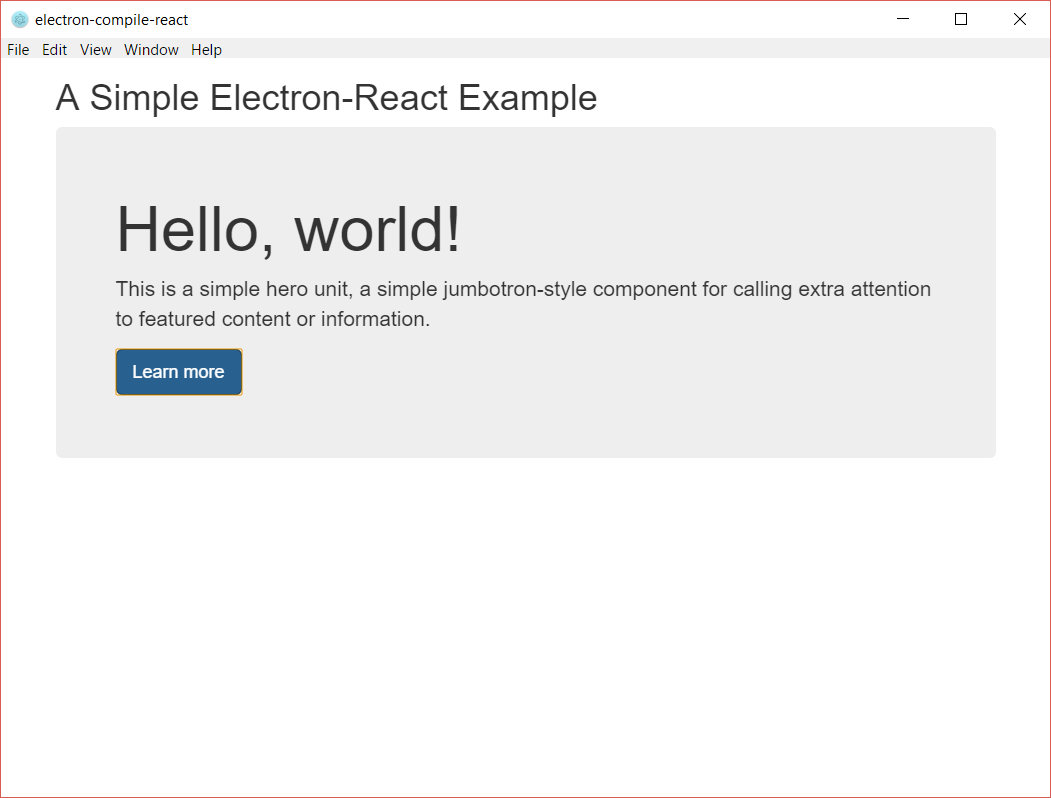
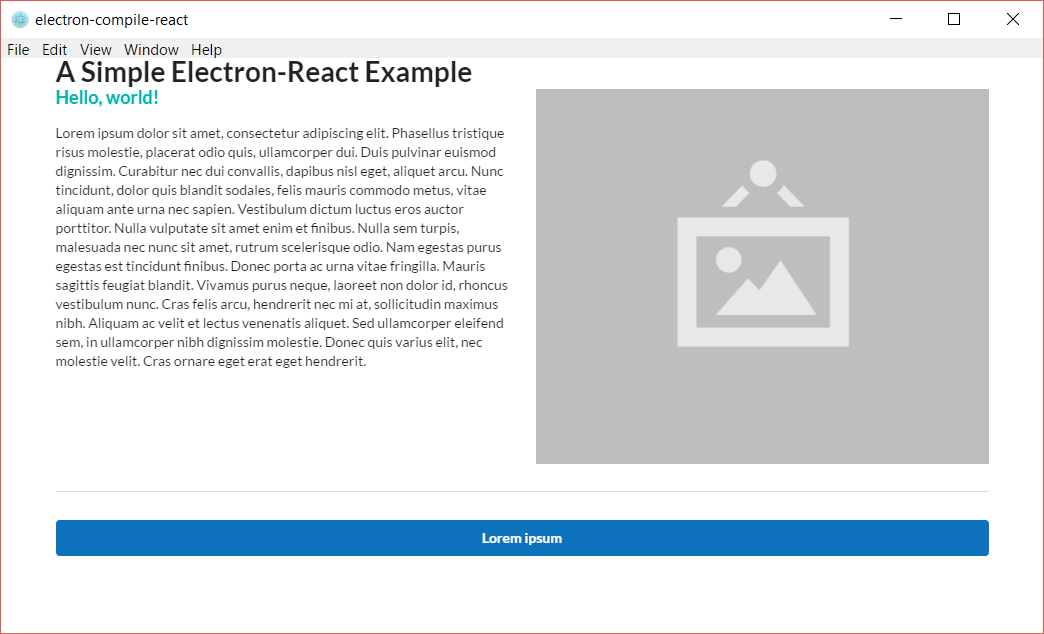
Changed UI Framework
Changed the UI framework from Bootstrap 3 to Semantic-UI-React. Changed
the .jsx components to include components from Semantic-UI-React.
Also added 'cross-env' npm package to allow user to add different ENV
variables upon starting the app.

diff --git a/main.js b/main.js
@@ -2,6 +2,12 @@ const {app, BrowserWindow} = require('electron')
 const path = require('path')
 const url = require('url')
 
+// Allow hot reload of the Electron app
+// https://www.npmjs.com/package/electron-reload
+// require('electron-reload')(__dirname, {
+//   electron: require('electron-prebuilt-compile')
+// })
+
 // Keep a global reference of the window object, if you don't, the window will
 // be closed automatically when the JavaScript object is garbage collected.
 let win
@@ -16,15 +22,23 @@ function createWindow () {
     title: 'electron-compile-react'
   })
 
-  // and load the index.html of the app.
-  win.loadURL(url.format({
-    pathname: path.join(__dirname, 'index.html'),
-    protocol: 'file:',
-    slashes: true
-  }))
+  // load the index.html of the app based on script ENV Variables.
+  if (process.env.NODE_ENV === 'development') {
+    win.loadURL(url.format({
+      pathname: path.join(__dirname, 'index.html'),
+      protocol: 'file:',
+      slashes: true
+    }))
 
-  // Open the DevTools.
-  win.webContents.openDevTools()
+    // Open the DevTools only in Development mode.
+    win.webContents.openDevTools()
+  } else {
+    win.loadURL(url.format({
+      pathname: path.join(__dirname, 'index.html'),
+      protocol: 'file:',
+      slashes: true
+    }))
+  }
 
   // Emitted when the window is closed.
   win.on('closed', () => {

diff --git a/src/components/LeftContent.jsx b/src/components/LeftContent.jsx
@@ -1,0 +1,15 @@
+// This component contains contents for the Body Component to render.
+import React from 'react'
+import { Container, Header } from 'semantic-ui-react'
+
+export default class Body extends React.Component {
+  render () {
+    return (
+      <Container fluid>
+        <Header as='h3' color='teal'>Hello, world!</Header>
+        <p>Lorem ipsum dolor sit amet, consectetur adipiscing elit. Phasellus tristique risus molestie, placerat odio quis, ullamcorper dui. Duis pulvinar euismod dignissim. Curabitur nec dui convallis, dapibus nisl eget, aliquet arcu. Nunc tincidunt, dolor quis blandit sodales, felis mauris commodo metus, vitae aliquam ante urna nec sapien. Vestibulum dictum luctus eros auctor porttitor. Nulla vulputate sit amet enim et finibus. Nulla sem turpis, malesuada nec nunc sit amet, rutrum scelerisque odio. Nam egestas purus egestas est tincidunt finibus. Donec porta ac urna vitae fringilla. Mauris sagittis feugiat blandit. Vivamus purus neque, laoreet non dolor id, rhoncus vestibulum nunc. Cras felis arcu, hendrerit nec mi at, sollicitudin maximus nibh. Aliquam ac velit et lectus venenatis aliquet. Sed ullamcorper eleifend sem, in ullamcorper nibh dignissim molestie. Donec quis varius elit, nec molestie velit. Cras ornare eget erat eget hendrerit.
+        </p>
+      </Container>
+    )
+  }
+}

diff --git a/src/components/Body.jsx b/src/components/Body.jsx
@@ -1,16 +1,29 @@
-// This component contains the body/main contents of the app. An example of Bootstrap Jumbotron.
+// This component contains the body/main contents of the app. This is an example of using the Grid component.
 import React from 'react'
+import { Button, Container, Grid, Image } from 'semantic-ui-react'
+import LeftContent from './LeftContent'
 
 export default class Body extends React.Component {
   render () {
     return (
-      <div>
-        <div className="jumbotron">
-          <h1>Hello, world!</h1>
-          <p>This is a simple hero unit, a simple jumbotron-style component for calling extra attention to featured content or information.</p>
-          <p><a className="btn btn-primary btn-lg" href="#" role="button">Learn more</a></p>
-        </div>
-      </div>
+      <Grid divided='vertically'>
+        <Grid.Row columns={2}>
+          <Grid.Column>
+            <LeftContent />
+          </Grid.Column>
+          <Grid.Column>
+            <Container>
+              <Image src='./resources/blank_image.png' />
+            </Container>
+          </Grid.Column>
+        </Grid.Row>
+
+        <Grid.Row columns={1}>
+          <Grid.Column>
+            <Button fluid color='blue'>Lorem ipsum</Button>
+          </Grid.Column>
+        </Grid.Row>
+      </Grid>
     )
   }
 }

diff --git a/index.html b/index.html
@@ -1,14 +1,16 @@
 <!DOCTYPE html>
 <head>
-	<!-- Load Bootstrap 3 stylesheet -->
-	<link rel="stylesheet" href="https://maxcdn.bootstrapcdn.com/bootstrap/3.3.7/css/bootstrap.min.css"
-	integrity="sha384-BVYiiSIFeK1dGmJRAkycuHAHRg32OmUcww7on3RYdg4Va+PmSTsz/K68vbdEjh4u" crossorigin="anonymous">
+	<!-- Load Semantic-UI -->
+	<!-- Note that this method does not allow for custom theming -->
+	<!-- Refer to: http://react.semantic-ui.com/usage -->
+	<link rel="stylesheet" href="//cdnjs.cloudflare.com/ajax/libs/semantic-ui/2.2.2/semantic.min.css"></link>
+
 </head>
 
 <body>
-	<div class="container" id="app"></div>
+	<div id="app"></div>
 
-	<script src="./App.js"></script>
+	<script src="./App.jsx"></script>
 
 	<!-- Start test here for React component embeded in html. This can be removed - for testing purposes only -->
 	<!-- Comment out above <div> and <script> tags then uncomment this section and run 'npm run start' -->

diff --git a/src/components/Layout.jsx b/src/components/Layout.jsx
@@ -1,16 +1,17 @@
 // This component defines a layout for the app and can be comprised on many elements.
 // This component is loaded into App.js to be rendered
 import React from 'react'
-import Header from './Header'
+import { Container } from 'semantic-ui-react'
+import Heading from './Heading'
 import Body from './Body'
 
 export default class Layout extends React.Component {
   render () {
     return (
-      <div>
-        <Header />
+      <Container>
+        <Heading />
         <Body />
-      </div>
+      </Container>
     )
   }
 }

diff --git a/src/components/Heading.jsx b/src/components/Heading.jsx
@@ -1,0 +1,13 @@
+// Import React Libraries
+import React from 'react'
+import { Container, Header } from 'semantic-ui-react'
+
+export default class Heading extends React.Component {
+  render () {
+    return (
+      <Container>
+        <Header as='h1'>A Simple Electron-React Example</Header>
+      </Container>
+    )
+  }
+}

diff --git a/README.md b/README.md
@@ -11,8 +11,9 @@ This boilerplate uses the following technology:
 - [electron-prebuilt-compile](https://github.com/electron-userland/electron-prebuilt-compile): powered by [electron-compile](https://github.com/electron/electron-compile) to compile JS and CSS
 - [React](https://facebook.github.io/react/): the UI
 - [Babel](http://babeljs.io/): a JavaScript compiler
-- [Bootstrap 3](http://getbootstrap.com/): a responsive CSS framework
+- [Semantic-UI-React](http://react.semantic-ui.com/introduction): a responsive UI framework with React components
 - [react-devtools](https://github.com/facebook/react-devtools): an extension of Chrome's developer tools for React components. Installed using [electron-devtools-installer](https://github.com/MarshallOfSound/electron-devtools-installer)
+- [cross-env](https://www.npmjs.com/package/cross-env): set environment scripts for running the app
 
 
 ![App screenshot](resources/electron-compile-react_screenshot.png)
@@ -47,6 +48,12 @@ package.json
 ```
 
 
+Note that the current configuration for Semantic-UI-React is installed via npm and includes the Semantic UI CDN link in the *index.js* file. To allow for custom theming with Semantic UI, the Semantic UI package would need to be installed and built with Gulp. Refer [here](https://github.com/Semantic-Org/Semantic-UI#install) for instructions on how to install the Semantic UI package.
+
+
+---
+
+
 # Editor Configuration
 #### Atom
 ```bash
@@ -54,11 +61,12 @@ apm install linter linter-js-standard-jsx react autocomplete-modules javascript-
 ```
 
 # Other UI Options
-The current template uses Bootstrap, but here are a few other front-end frameworks that can be used instead:
-- [Semantic UI](http://semantic-ui.com/)
-- [Foundation](http://foundation.zurb.com/)
-- [Materialize](http://materializecss.com/)
+The current template uses Semantic-UI-React, but here are a few other front-end frameworks that can be used instead:
+- [Semantic UI](http://semantic-ui.com/) or [Semantic-UI-React](http://react.semantic-ui.com/introduction)
 - [Material-UI](http://www.material-ui.com/#/)
+- [Materialize](http://materializecss.com/)
+- [Bootstrap 3](http://getbootstrap.com/)
+- [Foundation](http://foundation.zurb.com/)
 - [React Desktop](https://github.com/gabrielbull/react-desktop)
 - [Photon](http://photonkit.com/)
-- And more...
+- [And more...](https://en.wikipedia.org/wiki/CSS_frameworks#List_of_CSS_frameworks "Wikipedia")
